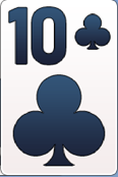
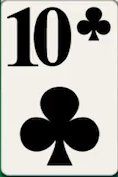
Use gameplay frame crop for ten of clubs

diff --git a/tests/solitaire.spec.js b/tests/solitaire.spec.js
@@ -386,6 +386,7 @@ test('reference card illustrations render on matching cards', async ({ page }) =
       [19, '♦', 4],
       [21, '♣', 9],
       [22, '♥', 9],
+      [24, '♣', 10],
     ];
     const used = new Set();
     for (const [position, suit, rank] of referenceFaces) {
@@ -420,6 +421,9 @@ test('reference card illustrations render on matching cards', async ({ page }) =
     const fourClubs = window.solitaireGame.state.tableau.flat().find((card) => card.suit === '♣' && card.rank === 4);
     if (!fourClubs) throw new Error('The test deal did not place the four of clubs in the tableau.');
     fourClubs.faceUp = true;
+    const tenClubs = window.solitaireGame.state.tableau.flat().find((card) => card.suit === '♣' && card.rank === 10);
+    if (!tenClubs) throw new Error('The test deal did not place the ten of clubs in the tableau.');
+    tenClubs.faceUp = true;
     for (const [suit, rank] of [['♣', 3], ['♣', 5], ['♦', 8], ['♠', 10], ['♠', 5], ['♠', 7], ['♦', 4], ['♣', 9]]) {
       const card = window.solitaireGame.state.tableau.flat().find((candidate) => candidate.suit === suit && candidate.rank === rank);
       if (!card) throw new Error(`The test deal did not place ${rank}${suit} in the tableau.`);
@@ -454,12 +458,20 @@ test('reference card illustrations render on matching cards', async ({ page }) =
     '2-of-hearts-reference.png',
     '7-of-diamonds-reference.png',
     '4-of-clubs-reference.png',
+    '10-of-clubs-reference.png',
   ];
   for (const filename of referenceArt) {
     const image = page.locator(`.card-face-art[src$="${filename}"]`);
     await expect(image).toHaveCount(1);
     await expect.poll(() => image.evaluate((element) => element.complete && element.naturalWidth === 118 && element.naturalHeight === 177)).toBe(true);
   }
+  const tenClubsAssetHash = await page.evaluate(async () => {
+    const response = await fetch('/assets/cards/10-of-clubs-reference.png');
+    const bytes = await response.arrayBuffer();
+    const digest = await crypto.subtle.digest('SHA-256', bytes);
+    return [...new Uint8Array(digest)].map((byte) => byte.toString(16).padStart(2, '0')).join('');
+  });
[1 lines of base64/hex data omitted]
   const bluePixelsInEightHeartsCorner = await page.evaluate(async () => {
     const response = await fetch('/assets/cards/8-of-hearts-reference.png');
     const image = new Image();

diff --git a/assets/cards/README.md b/assets/cards/README.md
@@ -56,14 +56,15 @@ On macOS, `sips -c 177 118 --cropOffset Y X source-frame.png --out card-referenc
 
 The matching reference PNG is selected at runtime and included in the offline shell cache. The remaining number-card faces are listed with their sources below.
 
-Two additional number-card faces are 118×177 source-frame crops from the full gameplay recording:
+Three additional number-card faces are 118×177 source-frame crops from the full gameplay recording:
 
 | Card image | PTS (time) | Crop origin (x, y) |
 | --- | ---: | ---: |
+| `10-of-clubs-reference.png` | 1843200 (120s) | (633, 916) |
 | `7-of-diamonds-reference.png` | 3732480 (243s) | (622, 428) |
 | `2-of-hearts-reference.png` | 9231360 (601s) | (622, 428) |
 
-Eight more number-card faces are crops from the official [App Store listing](https://apps.apple.com/us/app/solitaire-master/id6464113198?platform=ipad), from its 1242×2688 screenshot renditions. Each listed 116×174 source rectangle is resized to the app's 118×177 card art size:
+Seven more number-card faces are crops from the official [App Store listing](https://apps.apple.com/us/app/solitaire-master/id6464113198?platform=ipad), from its 1242×2688 screenshot renditions. Each listed 116×174 source rectangle is resized to the app's 118×177 card art size:
 
 | Card image | Listing screenshot | Crop origin (x, y) |
 | --- | ---: | ---: |
@@ -73,7 +74,6 @@ Eight more number-card faces are crops from the official [App Store listing](htt
 | `4-of-spades-reference.png` | 2 | (201, 1015) |
 | `8-of-spades-reference.png` | 2 | (443, 1061) |
 | `3-of-hearts-reference.png` | 3 | (563, 1084) |
-| `10-of-clubs-reference.png` | 3 | (806, 799) |
 | `3-of-spades-reference.png` | 2 | (807, 1129) |
 
 The 3♠ shown in screenshot 2 has a gold selected-card glow. Its rank, suit, and center artwork remain source pixels; the 6-pixel perimeter is reconstructed from the unselected 4♠ card frame in the same screenshot so the selection glow does not become part of the default deck.
@@ -97,6 +97,8 @@ Seven further number-card faces are complete crops from full gameplay frames. Ea
 | `4-of-diamonds-reference.png` | 14745600 (960s) | (383, 428) |
 | `9-of-clubs-reference.png` | 15052800 (980s) | (383, 994) |
 
-The runtime selects these crops for their matching cards and includes them in the offline shell cache. All twelve court cards and thirty-nine number-card faces use source-frame or official store crops.
+The 10♣ crop comes from the default black-suit gameplay frame at 120 seconds. It was re-extracted independently from the full source frame and pixel-compared with the committed 118×177 crop; the complete face is unobstructed. Source PTS, frame hash, crop hash, and extraction coordinates are recorded in [`research/solitaire-master/source-card-10-of-clubs-2026-11-25`](../../research/solitaire-master/source-card-10-of-clubs-2026-11-25).
+
+The runtime selects these crops for their matching cards and includes them in the offline shell cache. All twelve court cards and thirty-nine number-card faces use source-frame or official store crops; the 9♥ is the remaining source-style composite.
 
 The 9♥ reference PNG is a source-style composite rather than a direct 9♥ screenshot crop. It keeps the 9♦ source capture's rank, frame, and card placement, removes its two diamond pips, and places the corner and center heart shapes from the 5♥ source capture. The composite is built reproducibly with `python3 tools/build_nine_hearts_reference.py`. This removes the last CC0 face from the default Solitaire Master face style, while preserving the distinction that the 9♥ silhouette has not been captured directly from the original game.
